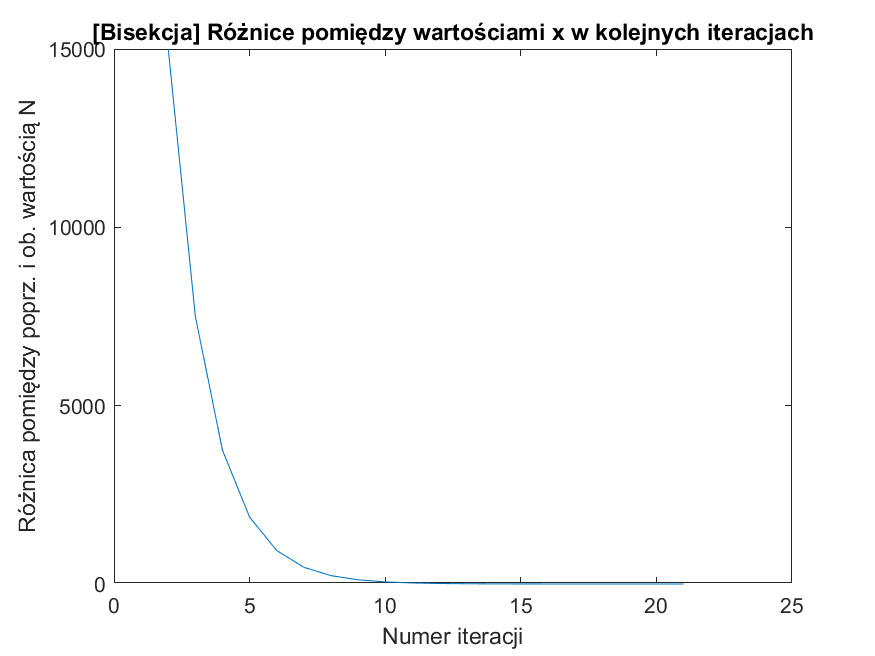
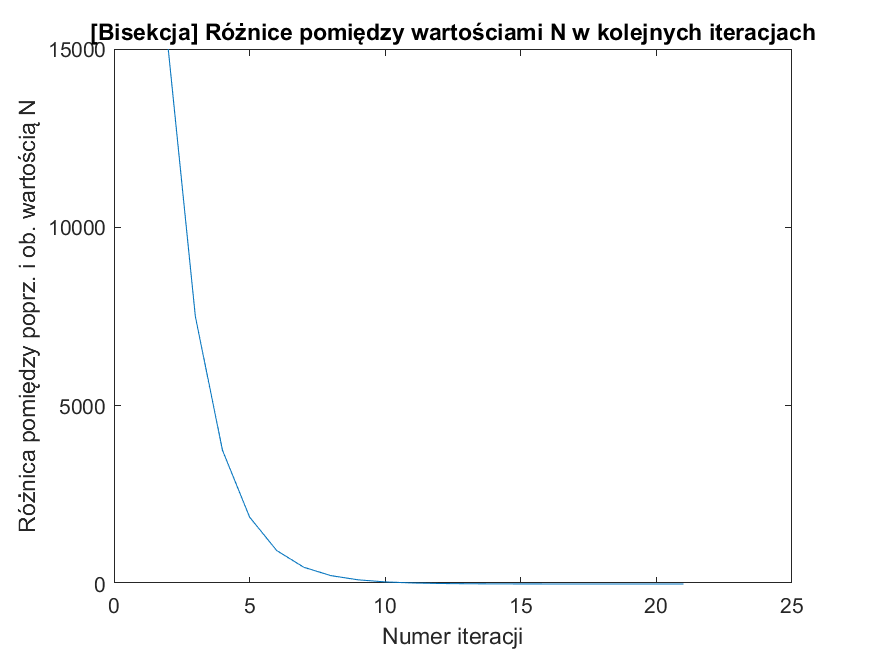
Finish plotting

Changed region(s): [[0.0926, 0.0305, 0.9566, 0.061]]

diff --git a/lab4/main_lab4.m b/lab4/main_lab4.m
@@ -4,26 +4,75 @@ close all
 
 [xvect, xdif, fx, it_cnt] = bisect(1,60000,1e-3,@compute_parameters_number);
 semilogy(1:it_cnt, xvect)
-title("[Bisekcja] Wartości kolejnych przybliżeń xi w zależności od numeru iteracji i");
-ylabel("Liczba parametrów wejściowych N");
+title("[Bisekcja] Wartości przybliżeń N w kolejnych iteracjach");
+ylabel("N");
 xlabel("Numer iteracji");
 saveas(gcf, 'zad1_bisekcja_przybliżenia.png');
 plot(2:it_cnt, xdif)
-title("[Bisekcja] Różnice pomiędzy wartościami x w kolejnych iteracjach");
+title("[Bisekcja] Różnice pomiędzy wartościami N w kolejnych iteracjach");
 ylabel("Różnica pomiędzy poprz. i ob. wartością N");
 xlabel("Numer iteracji");
 saveas(gcf, 'zad1_bisekcja_różnice.png');
 
 [xvect, xdif, fx, it_cnt] = secant(1,60000,1e-3,@compute_parameters_number);
-
+semilogy(1:it_cnt, xvect)
+title("[M. siecznych] Wartości przybliżeń N w kolejnych iteracjach");
+ylabel("Liczba parametrów wejściowych N");
+xlabel("Numer iteracji");
+saveas(gcf, 'zad1_metoda_siecznych_przybliżenia.png');
+plot(2:it_cnt, xdif)
+title("[M. siecznych] Różnice pomiędzy wartościami N w kolejnych iteracjach");
+ylabel("Różnica pomiędzy poprz. i ob. wartością N");
+xlabel("Numer iteracji");
+saveas(gcf, 'zad1_metoda_siecznych_różnice.png');
 
 
 [xvect, xdif, fx, it_cnt] = bisect(0,52,1e-12,@compute_impedance);
+semilogy(1:it_cnt, xvect)
+title("[Bisekcja] Wartości przybliżeń ω w kolejnych iteracjach");
+ylabel("ω [rad/s]");
+xlabel("Numer iteracji");
+saveas(gcf, 'zad2_bisekcja_przybliżenia.png');
+plot(2:it_cnt, xdif)
+title("[Bisekcja] Różnice pomiędzy wartościami ω w kolejnych iteracjach");
+ylabel("Różnica pomiędzy poprz. i ob. wartością ω");
+xlabel("Numer iteracji");
+saveas(gcf, 'zad2_bisekcja_różnice.png');
 
 [xvect, xdif, fx, it_cnt] = secant(0,52,1e-12,@compute_impedance);
+semilogy(1:it_cnt, xvect)
+title("[M. siecznych] Wartości przybliżeń ω w kolejnych iteracjach");
+ylabel("ω [rad/s]");
+xlabel("Numer iteracji");
+saveas(gcf, 'zad2_metoda_siecznych_przybliżenia.png');
+plot(2:it_cnt, xdif)
+title("[M. siecznych] Różnice pomiędzy wartościami ω w kolejnych iteracjach");
+ylabel("Różnica pomiędzy poprz. i ob. wartością ω");
+xlabel("Numer iteracji");
+saveas(gcf, 'zad2_metoda_siecznych_różnice.png');
 
 
 
 [xvect, xdif, fx, it_cnt] = bisect(0,52,1e-12,@compute_time);
+semilogy(1:it_cnt, xvect)
+title("[Bisekcja] Wartości przybliżeń t w kolejnych iteracjach");
+ylabel("t [s]");
+xlabel("Numer iteracji");
+saveas(gcf, 'zad3_bisekcja_przybliżenia.png');
+plot(2:it_cnt, xdif)
+title("[Bisekcja] Różnice pomiędzy wartościami t w kolejnych iteracjach");
+ylabel("Różnica pomiędzy poprz. i ob. wartością t [s]");
+xlabel("Numer iteracji");
+saveas(gcf, 'zad3_bisekcja_różnice.png');
 
 [xvect, xdif, fx, it_cnt] = secant(0,52,1e-12,@compute_time);
+semilogy(1:it_cnt, xvect)
+title("[M. siecznych] Wartości przybliżeń t w kolejnych iteracjach");
+ylabel("t [s]");
+xlabel("Numer iteracji");
+saveas(gcf, 'zad3_metoda_siecznych_przybliżenia.png');
+plot(2:it_cnt, xdif)
+title("[M. siecznych] Różnice pomiędzy wartościami t w kolejnych iteracjach");
+ylabel("Różnica pomiędzy poprz. i ob. wartością t [s]");
+xlabel("Numer iteracji");
+saveas(gcf, 'zad3_metoda_siecznych_różnice.png');
